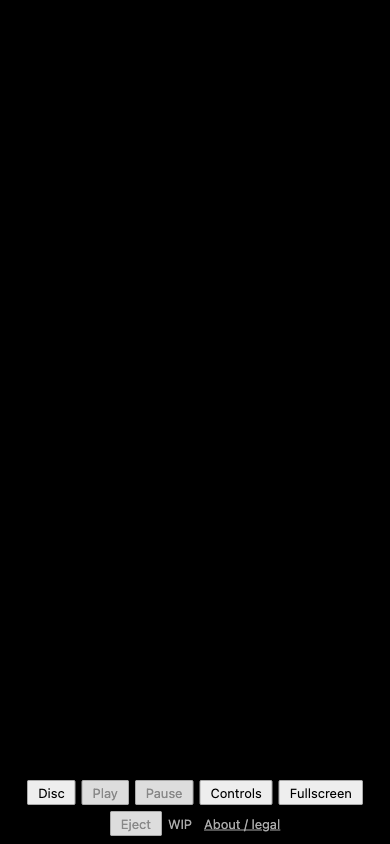
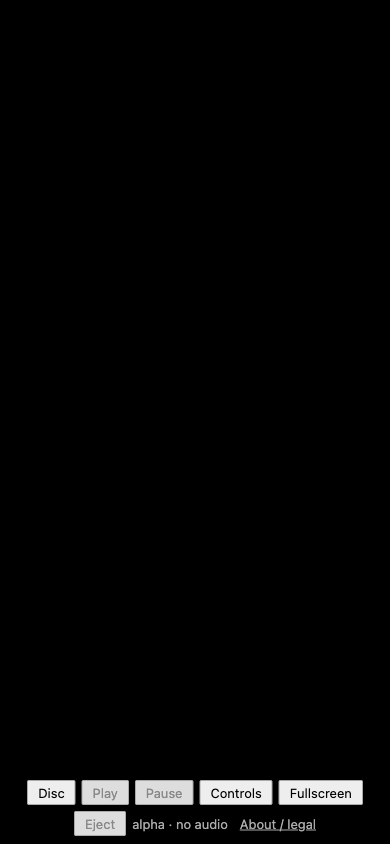
Record hosted alpha verification and remaining mail gate

Changed region(s): [[0.1846, 0.955, 0.8, 1.0]]

diff --git a/scripts/verify_public_http.py b/scripts/verify_public_http.py
@@ -27,7 +27,10 @@ FORBIDDEN_AUDIO_MODULES = (
 
 def get(url):
     try:
-        with urllib.request.urlopen(url, timeout=30) as response:
+        # Identify this release check explicitly; the default Python urllib agent
+        # is rejected by Cloudflare Pages browser-integrity filtering (1010).
+        request = urllib.request.Request(url, headers={"User-Agent": "WebMelee-Release-Audit/1.0"})
+        with urllib.request.urlopen(request, timeout=30) as response:
             return response.status, response.headers, response.read(), response.url
     except urllib.error.HTTPError as error:
         try:

diff --git a/docs/PUBLIC_ALPHA_VALIDATION.md b/docs/PUBLIC_ALPHA_VALIDATION.md
@@ -70,7 +70,10 @@ compile successfully. The 36 focused public build/audit/HTTP tests pass under
 normal Python and `python -O`, including stale source/proof rejection, exact
 manifest enforcement, legacy/audio-enabled identity rejection and forbidden
 audio routes. The new silent-clock C test runs through normal test discovery.
-The full unittest run is recorded below after final verification.
+**642 tests ran, 50 skipped, with no failures** in final unittest discovery.
+The skips require optional owned reference assets, traces or tools. The same
+36 public release tests also pass in a fresh tracked-files checkout without
+installed native dependencies or existing build output.
 
 ## Browser and gameplay evidence
 
@@ -109,3 +112,31 @@ or performance admission is claimed.
 
 Raw logs and game screenshots stay in ignored local directories. They are not
 committed or uploaded. Only original empty-player UI screenshots may be shared.
+
+## Hosted verification and launch gate
+
+The exact candidate is deployed to
+[8e2cdf90.webmelee.pages.dev](https://8e2cdf90.webmelee.pages.dev), with the
+[staging alias](https://staging.webmelee.pages.dev). It is non-indexed. The
+staging upload records implementation commit `f56dab9`; later release-record
+updates do not change its public bytes.
+
+Hosted HTTP verification passes for all **18 served files and five HTML
+aliases**, comparing bytes to the final manifest, and **32 absent routes**,
+including root and runtime-scoped development audio paths. `_headers` and
+`_redirects` are consumed hosting configuration and return 404. Security,
+isolation, MIME and caching checks pass; unversioned notices revalidate.
+Cloudflare initially rejected Python's default user agent with error 1010;
+the verifier now identifies itself as `WebMelee-Release-Audit/1.0`. Normal
+Chrome and that explicit audit client both succeed.
+
+The hosted public browser repeat passes all **10 checks**. Its request inventory
+contains only same-origin static GET requests; no browser audio contexts,
+page/CSP errors or application uploads were observed. The hosted runtime hash
+matches the locally tested silent CPU-match artifact exactly.
+
+No nameserver cutover or public custom domain was activated. The forwarding
+destination still needs to be supplied, the expired Namecheap sign-in restored,
+and actual receipt at that inbox verified. A published address, copied MX
+records or dashboard status alone is not an end-to-end mail test. The final
+artifact gate passes; the mail gate remains open.

diff --git a/docs/PUBLIC_DEPLOYMENT.md b/docs/PUBLIC_DEPLOYMENT.md
@@ -18,7 +18,10 @@ the accepted alpha risk posture and the remaining artifact/contact gates.
 The `webmelee` Direct Upload Pages project and a free `webmelee.gg` zone have
 been created. The operator has specified **NaiadAI, LLC** and
 **legal@webmelee.gg** as the public contact. This supplies the public facts; it
-does not prove mail delivery. No deployment or custom domain is active yet. Cloudflare's DNS
+does not prove mail delivery. The audited candidate is deployed only to staging:
+[8e2cdf90.webmelee.pages.dev](https://8e2cdf90.webmelee.pages.dev). Hosted byte,
+header and 404 checks and all 10 public browser checks pass. No custom domain
+is active yet. Cloudflare's DNS
 scan preserved the five existing MX records and SPF TXT record; its imported A
 and www CNAME still point to Namecheap parking and must be replaced for Pages.
 The assigned nameservers are `alan.ns.cloudflare.com` and
